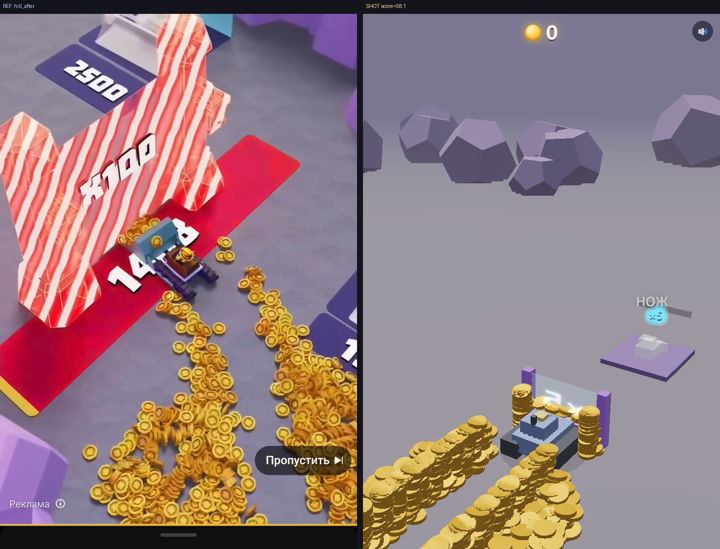
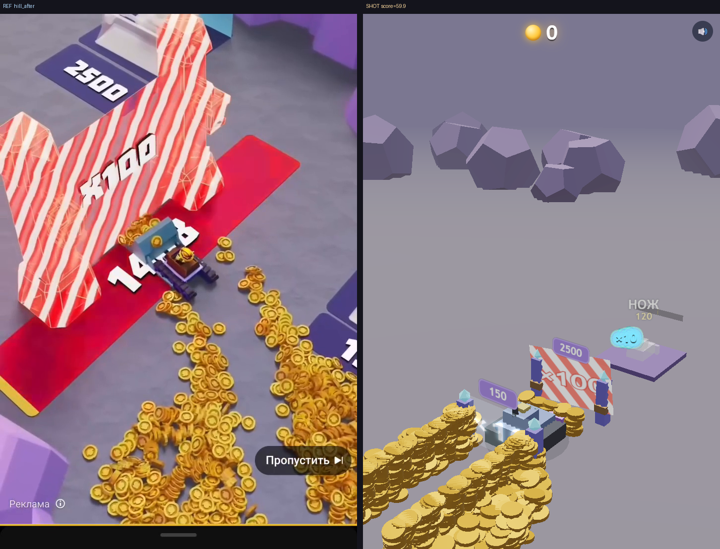
@ feat: iteration 3 — gates restyled to match reference
Replace the single cyan curtain with reference-style gates: white glass
curtain (xN) and a red-and-white striped chevron for the big multiplier,
ornate gem-capped posts, and a purple price banner above each.

- index.html: gateTex(kind=white|red), bannerTex, richer addGate(kind,price);
  world layout escalates white x10 -> red chevron x100
- planes face the approaching dozer (-z) so text reads correctly
- refreshed ref-vs-render illustration

@

Changed region(s): [[0.4889, 0.5264, 0.9778, 1.0], [0.4889, 0.2168, 0.8861, 0.3716], [0.8861, 0.1548, 1.0, 0.3406]]

diff --git a/index.html b/index.html
@@ -119,10 +119,31 @@ function placeAtSource(i){const a=rnd()*6.28,r=Math.sqrt(rnd())*4.6;const o=C[i]
 
 /* GATES + PADS */
 const gates=[];
-function gateTex(label){const c=document.createElement('canvas');c.width=256;c.height=256;const x=c.getContext('2d');x.fillStyle='rgba(90,200,255,.22)';x.fillRect(0,0,256,256);x.fillStyle='#eaffff';x.font='900 150px Trebuchet MS,sans-serif';x.textAlign='center';x.textBaseline='middle';x.shadowColor='#39c8ff';x.shadowBlur=22;x.fillText(label,128,140);return new THREE.CanvasTexture(c);}
-function addGate(x,z,rot,mult){const g=new THREE.Group();g.position.set(x,0,z);g.rotation.y=rot;scene.add(g);
-  const post=new THREE.MeshStandardMaterial({color:0x6a3fd0,roughness:.4,emissive:0x200a40,emissiveIntensity:.6});box(.5,3,.5,post,-2.2,1.5,0,g);box(.5,3,.5,post,2.2,1.5,0,g);
-  const cur=new THREE.Mesh(new THREE.PlaneGeometry(4,2.6),new THREE.MeshBasicMaterial({map:gateTex('×'+mult),transparent:true,opacity:.9,side:THREE.DoubleSide,blending:THREE.AdditiveBlending,depthWrite:false}));cur.position.set(0,1.6,0);g.add(cur);
+function gateTex(label,kind){const c=document.createElement('canvas');c.width=256;c.height=256;const x=c.getContext('2d');
+  if(kind==='red'){                                   // красно-белый полосатый шеврон (как ×100 в рефе)
+    x.fillStyle='#fff';x.fillRect(0,0,256,256);x.save();x.translate(128,128);x.rotate(-0.5);x.fillStyle='#e8392f';
+    for(let i=-320;i<320;i+=56)x.fillRect(i,-260,28,520);x.restore();
+    x.font='900 92px Trebuchet MS,sans-serif';x.textAlign='center';x.textBaseline='middle';x.lineWidth=9;x.strokeStyle='#b81d16';x.strokeText(label,128,140);x.fillStyle='#fff';x.fillText(label,128,140);
+  }else{                                               // светло-циановая стеклянная завеса (как ×10 в рефе)
+    x.fillStyle='rgba(150,225,255,.16)';x.fillRect(0,0,256,256);x.fillStyle='#f2ffff';x.font='900 140px Trebuchet MS,sans-serif';x.textAlign='center';x.textBaseline='middle';x.shadowColor='#5ec8ff';x.shadowBlur=20;x.fillText(label,128,138);
+  }
+  return new THREE.CanvasTexture(c);}
+function bannerTex(text){const c=document.createElement('canvas');c.width=256;c.height=128;const x=c.getContext('2d');
+  x.fillStyle='#5a3fb4';x.strokeStyle='#7d5fe0';x.lineWidth=8;const r=26;x.beginPath();
+  x.moveTo(12+r,18);x.arcTo(244,18,244,110,r);x.arcTo(244,110,12,110,r);x.arcTo(12,110,12,18,r);x.arcTo(12,18,244,18,r);x.closePath();x.fill();x.stroke();
+  x.fillStyle='#fff';x.font='900 62px Trebuchet MS,sans-serif';x.textAlign='center';x.textBaseline='middle';x.shadowColor='rgba(0,0,0,.4)';x.shadowBlur=6;x.fillText(text,128,66);
+  return new THREE.CanvasTexture(c);}
+function addGate(x,z,rot,mult,kind,price){const g=new THREE.Group();g.position.set(x,0,z);g.rotation.y=rot;scene.add(g);
+  const body=new THREE.MeshStandardMaterial({color:0x4a47c0,roughness:.4,metalness:.2,emissive:0x191455,emissiveIntensity:.5});
+  const copper=new THREE.MeshStandardMaterial({color:0xb5642a,roughness:.6,metalness:.3});
+  const gemMat=new THREE.MeshStandardMaterial({color:0x6fe0ff,roughness:.2,metalness:.3,emissive:0x2aa0d0,emissiveIntensity:.7});
+  for(const sx of [-1,1]){                              // орнаментные столбы: тело + медный пояс + самоцвет
+    box(.6,2.6,.6,body,sx*2.2,1.3,0,g);box(.7,.42,.7,copper,sx*2.2,.95,0,g);
+    const gem=new THREE.Mesh(new THREE.OctahedronGeometry(.38,0),gemMat);gem.position.set(sx*2.2,2.85,0);g.add(gem);}
+  const red=kind==='red';
+  const cur=new THREE.Mesh(new THREE.PlaneGeometry(red?5.4:4.2,red?3.2:2.7),new THREE.MeshBasicMaterial({map:gateTex('×'+mult,kind),transparent:true,opacity:red?.96:.92,side:THREE.DoubleSide,blending:red?THREE.NormalBlending:THREE.AdditiveBlending,depthWrite:false}));
+  cur.position.set(0,red?1.95:1.65,0);cur.rotation.y=Math.PI;if(red)cur.rotation.z=0.12;g.add(cur); // лицом к подъезжающему (-z)
+  if(price){const b=new THREE.Mesh(new THREE.PlaneGeometry(2.6,1.3),new THREE.MeshBasicMaterial({map:bannerTex(price),transparent:true,side:THREE.DoubleSide,depthWrite:false}));b.position.set(0,3.7,0);b.rotation.y=Math.PI;g.add(b);}
   gates.push({x,z,n:new THREE.Vector3(Math.sin(rot),0,Math.cos(rot)),right:new THREE.Vector3(Math.cos(rot),0,-Math.sin(rot)),mult,halfW:2.0});}
 const pads=[];
 function makeLabel(){const c=document.createElement('canvas');c.width=256;c.height=128;const spr=new THREE.Sprite(new THREE.SpriteMaterial({map:new THREE.CanvasTexture(c),transparent:true}));spr.userData.c=c;spr.scale.set(3.6,1.8,1);return spr;}
@@ -147,7 +168,8 @@ function popup(world,text,color){const v=world.clone().project(camera);if(v.z>1)
 function setupWorld(){
   for(let i=0;i<N;i++){if(i<900)placeAtSource(i);else{C[i].st='free';free.push(i);hide(i);}}
   mesh.instanceMatrix.needsUpdate=true;
-  addGate(0,17,0,5);
+  addGate(0,13,0,10,'white','150');
+  addGate(0,19,0,100,'red','2500');
   addPad(0,27,'НОЖ',120,()=>{UP.bladeHalf+=0.5;blade.scale.x=UP.bladeHalf/1.6;});
   addPad(-14,7,'ЗАХВАТ',150,()=>{UP.reach+=0.6;});
   addPad(14,7,'ЦЕННОСТЬ',180,()=>{UP.mult*=1.7;});